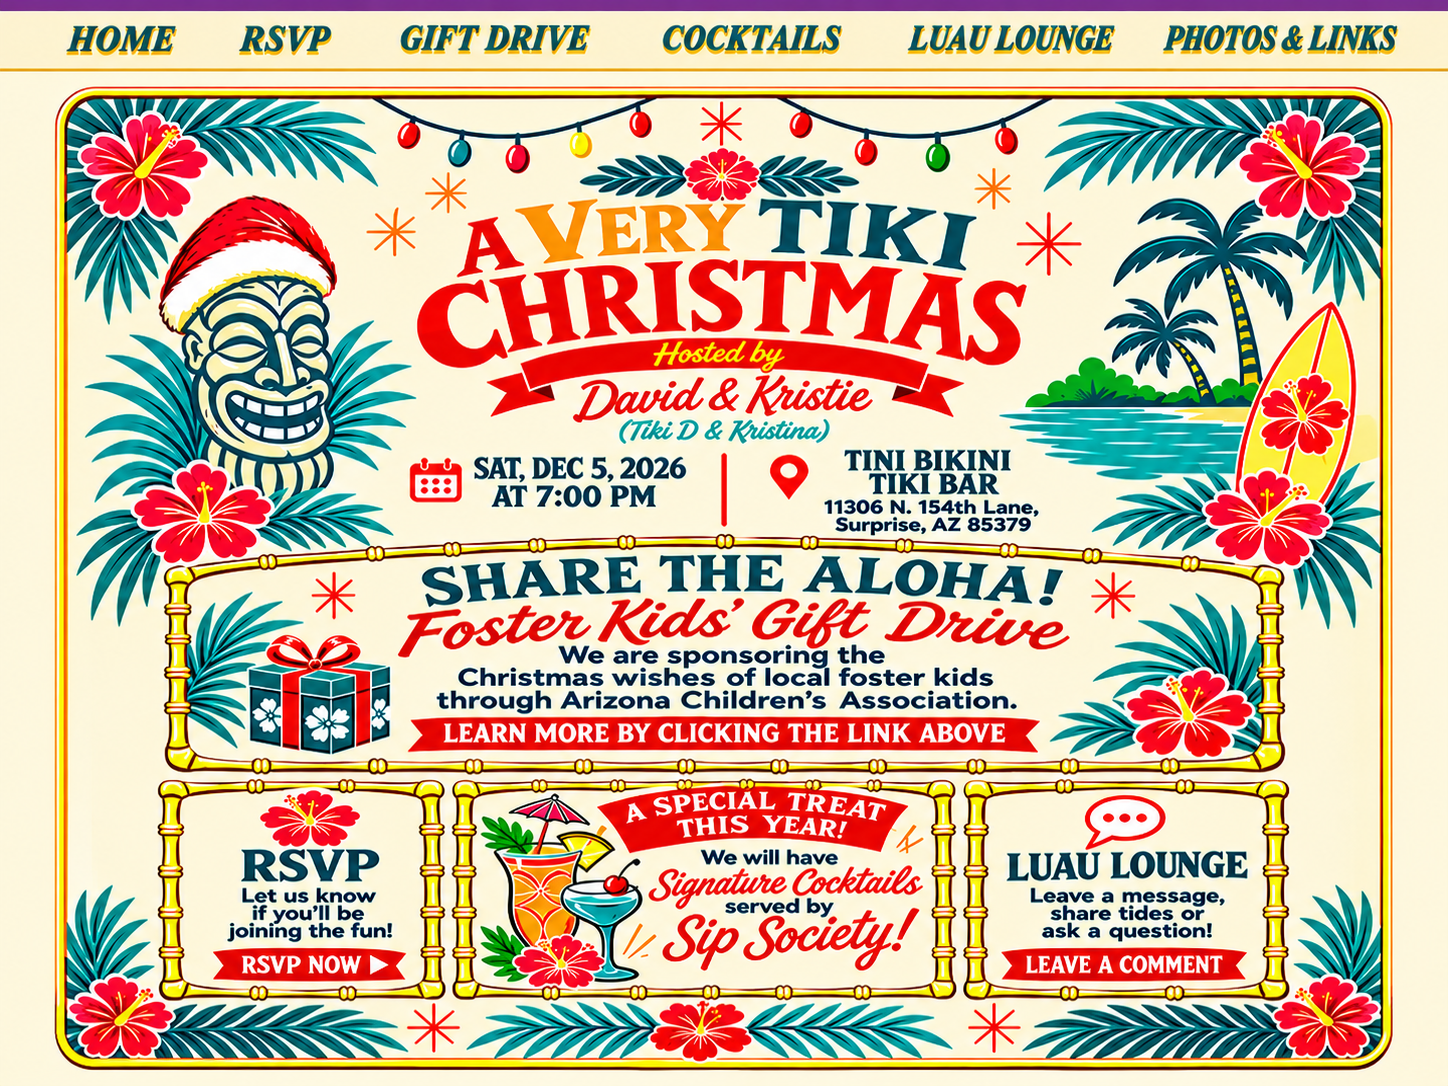
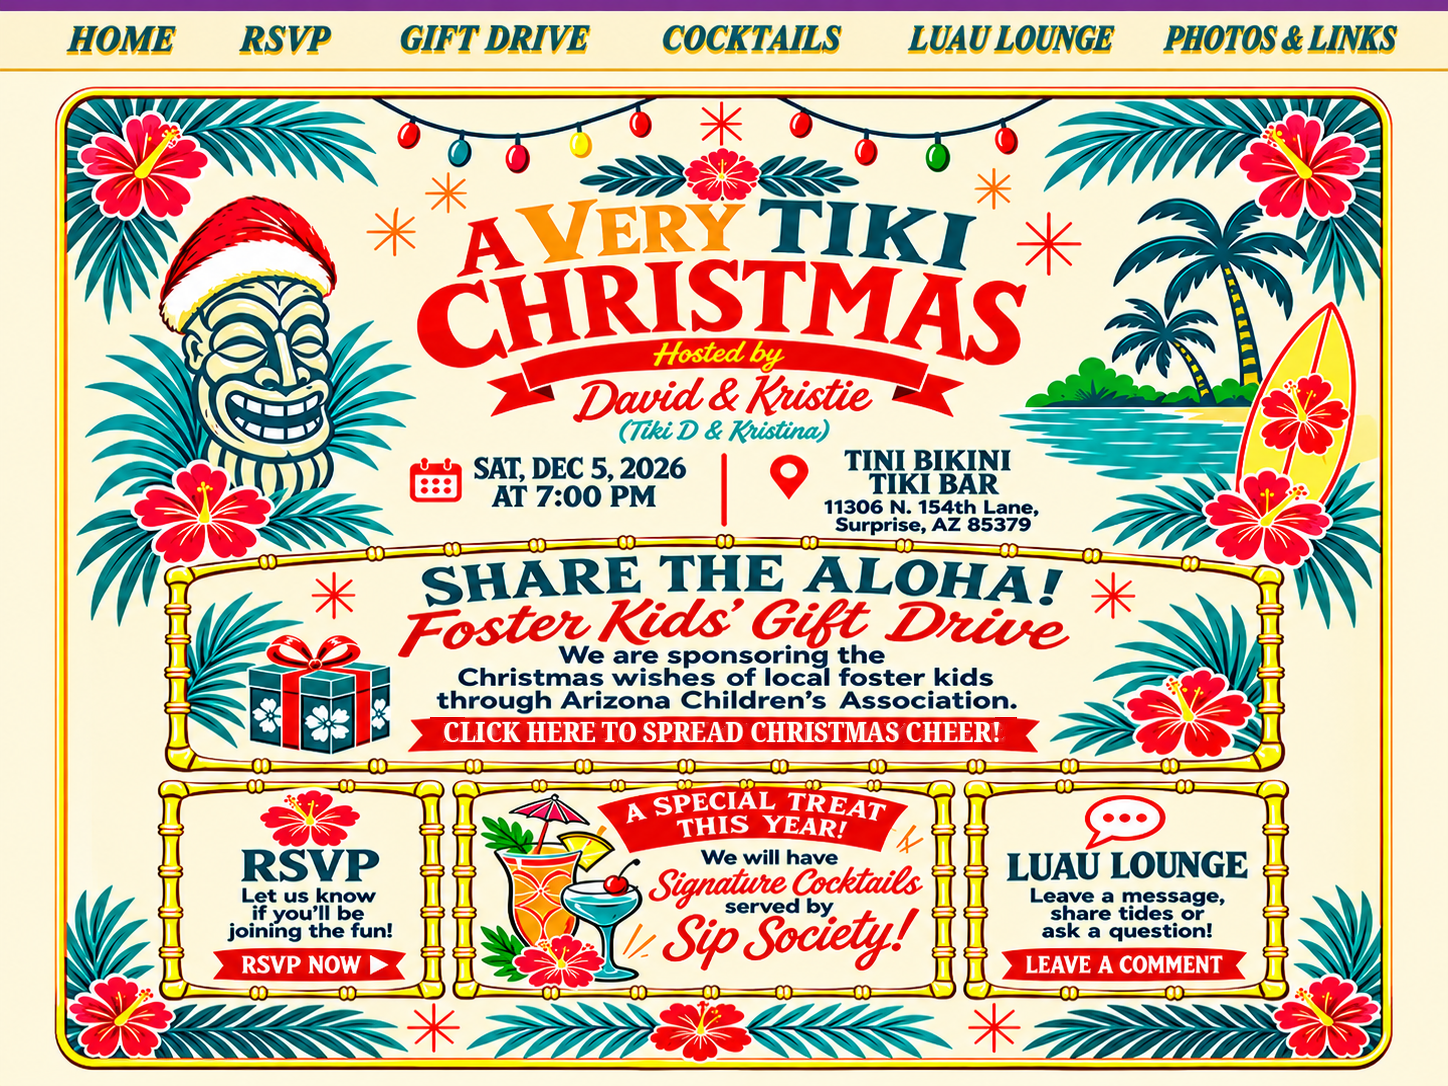
Add files via upload

Changed region(s): [[0.3108, 0.6685, 0.7148, 0.6989]]

diff --git a/index.html b/index.html
@@ -36,8 +36,12 @@
     .action {display:inline-block;background:var(--red);color:#fff;padding:13px 23px;border:3px solid var(--gold);border-radius:8px;font:bold 17px Georgia,serif;text-decoration:none;margin:18px 0 8px;box-shadow:0 3px 0 #9f1f24}
     .action:hover,.action:focus-visible{background:#981a28}
     .note {font-size:14px!important;color:#465957}
+
+    .social-strip {max-width:1000px;margin:14px auto 0;padding:12px 16px;display:flex;align-items:center;justify-content:center;gap:10px 24px;flex-wrap:wrap;background:#fff9e5;border:3px double var(--gold);border-radius:12px;text-align:center;font-family:Georgia,serif}
+    .social-strip a {color:var(--teal);font-weight:bold;text-decoration:underline;text-underline-offset:3px}
+    @media(max-width:650px){.social-strip{margin:8px 10px 0;padding:9px 7px;gap:5px 12px;font-size:13px;border-width:2px}}
     footer {text-align:center;padding:0 15px 27px;font-size:16px}
-    @media(max-width:650px){.extra{padding:0 10px 24px}.info{padding:18px 13px;margin:14px 0}.action{font-size:16px}}
+    @media(max-width:650px){.extra{padding:0 10px 20px}.info{width:91%;padding:11px 12px;margin:10px auto;border-width:3px;border-radius:10px;box-shadow:0 2px 0 #cf9d3955}.info h2{font-size:20px;line-height:1.15;margin:0 0 8px}.info p{font-size:13.5px;line-height:1.33;margin:7px auto}.action{font-size:13px;padding:9px 12px;margin:10px 0 5px;border-width:2px}.note{font-size:12px!important}}
   </style>
 </head>
 <body>
@@ -56,6 +60,11 @@
       <a class="hotspot lounge-button" href="#luau-lounge" aria-label="Luau Lounge comments information"></a>
       <a class="hotspot cocktail-panel" href="#cocktails" aria-label="Learn about Sip Society cocktails"></a>
     </div>
+    <aside class="social-strip" aria-label="Instagram links">
+      <span>🌴 Follow the tiki fun:</span>
+      <a href="https://www.instagram.com/tinibikinitiki/" target="_blank" rel="noopener noreferrer">Instagram @tinibikinitiki</a>
+      <a href="https://www.instagram.com/sipsocietyaz/" target="_blank" rel="noopener noreferrer">🍹 Sip Society @sipsocietyaz</a>
+    </aside>
     <div class="extra">
       <section class="info" id="gift-drive">
         <h2>🎁 Share the Aloha!</h2>
@@ -69,6 +78,7 @@
       <section class="info" id="cocktails">
         <h2>🍹 A Special Treat This Year!</h2>
         <p>Signature cocktails served by <strong>Sip Society!</strong></p>
+        <p>Follow the cocktails on Instagram: <a href="https://www.instagram.com/sipsocietyaz/" target="_blank" rel="noopener noreferrer">@sipsocietyaz</a></p>
       </section>
       <section class="info" id="luau-lounge">
         <h2>🌺 Luau Lounge</h2>
@@ -77,6 +87,7 @@
       <section class="info" id="photos">
         <h2>📸 Photos &amp; Links</h2>
         <p>Party photos and helpful links will appear here.</p>
+        <p>Follow our tiki bar on Instagram: <a href="https://www.instagram.com/tinibikinitiki/" target="_blank" rel="noopener noreferrer">@tinibikinitiki</a></p>
         <a class="action" href="https://docs.google.com/forms/d/e/1FAIpQLSf4m5Eq5neGTMWGXfcGtvVQ0W693zILfAYA3VJLAW2BDi1MYw/viewform" target="_blank" rel="noopener noreferrer">RSVP to the Party</a>
       </section>
     </div>
